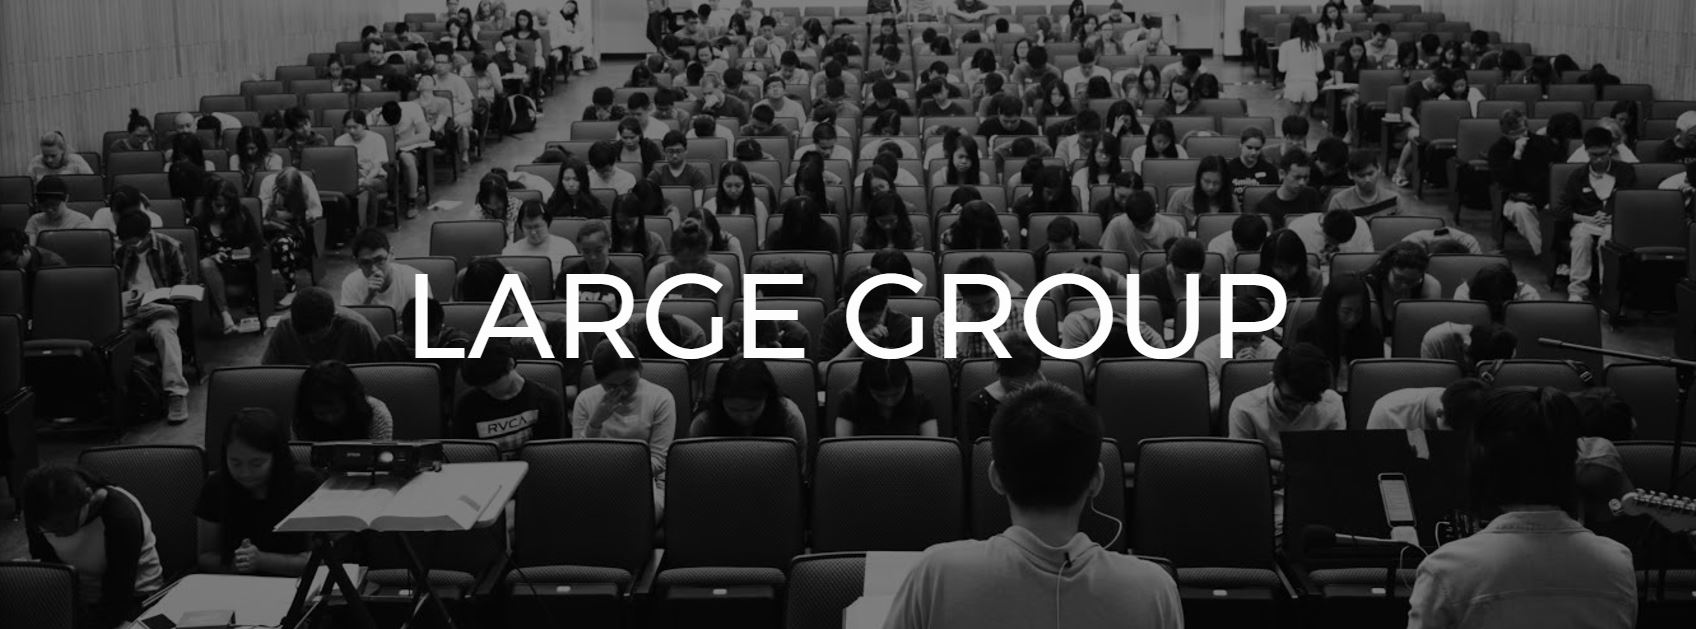
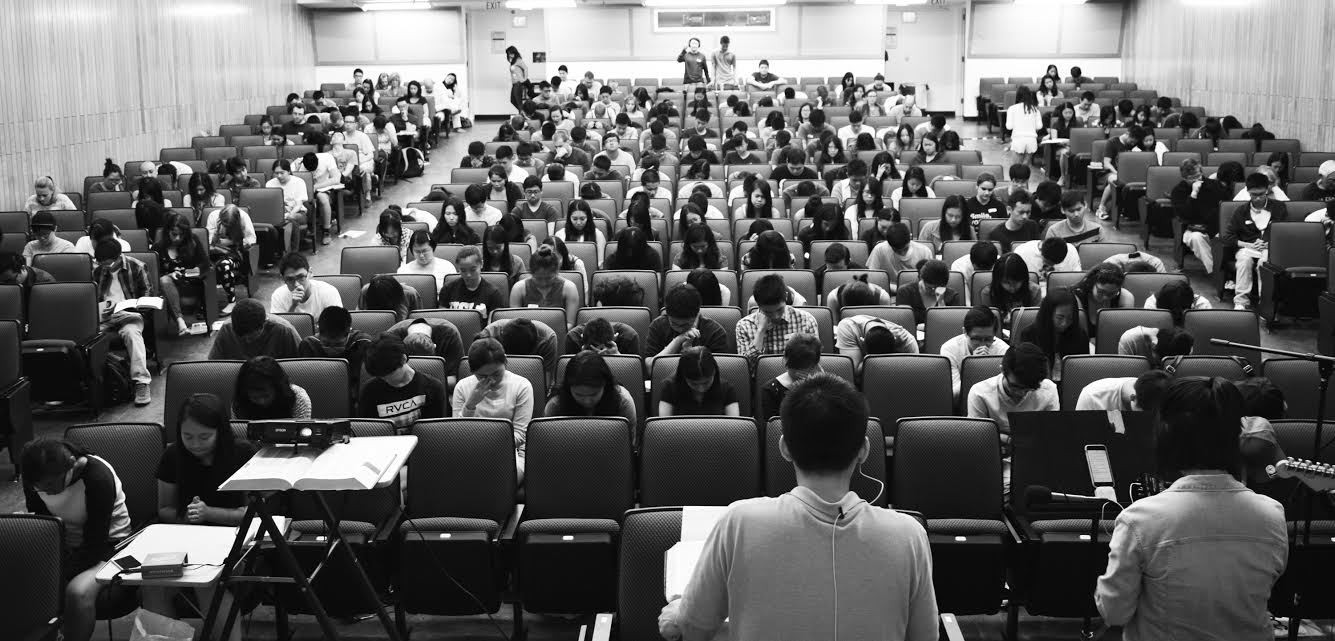
fixed render issue

diff --git a/src/screens/home/homepage.js b/src/screens/home/homepage.js
@@ -18,7 +18,7 @@ class Home extends Component {
     headerStyle: { backgroundColor: '#fff', borderBottomWidth: 1, borderBottomColor: '#ecedef', paddingTop: 20 },
     headerTitleStyle: { fontFamily: 'Akkurat-Regular', fontSize: 15, color: '#222222', lineHeight: 18 },
   })
-  
+
   constructor(props) {
     super(props);
     this.state = {
@@ -28,7 +28,7 @@ class Home extends Component {
     };
     this.props.getUserPerm();
     this.props.postFetch();
-     
+
     this.setRead = this.setRead.bind(this);
     this.renderRow = this.renderRow.bind(this);
   }
@@ -111,14 +111,14 @@ class Home extends Component {
       return (
         <Screen>
           {
-            (this.state.userInfo != null && this.state.userInfo.admin) &&
+            (this.state.userInfo != null && this.state.userInfo.admin === 1) &&
              <View style={{ padding: 25 }} styleName='vertical h-center v-end'>
               <Button onPress={() => this.props.navigation.navigate('AddPost')}>
                 <Text>ADD POST</Text>
               </Button>
             </View>
           }
-         
+
           <Divider styleName="section-header">
             <Caption>Announcements</Caption>
           </Divider>

diff --git a/src/screens/about.js b/src/screens/about.js
@@ -3,7 +3,7 @@ import {
   TouchableOpacity,
   ScrollView,
 } from 'react-native';
-import { Icon, View, Divider, Heading, Title, Text, Screen } from '@shoutem/ui';
+import { Icon, View, Divider, Heading, Title, Text, Screen, Image, Tile } from '@shoutem/ui';
 
 
 class About extends Component {
@@ -25,6 +25,14 @@ class About extends Component {
   render = () => (
     <Screen>
       <ScrollView>
+      <Image
+        styleName='large-banner'
+        source={require('../images/about.jpg')}
+      >
+        <Tile>
+          <Title style={{ fontSize: 28 }}>ABOUT US</Title>
+        </Tile>
+      </Image>
         <View style={{ paddingLeft: 35, paddingRight: 35 }} styleName='vertical'>
           <Divider />
           <Title styleName='textBelow'>Welcome to Grace on Campus!</Title>

diff --git a/src/screens/connect.js b/src/screens/connect.js
@@ -37,7 +37,7 @@ class Connect extends Component {
             source={require('../images/largeGroupPhoto.jpg')}
           >
             <Tile>
-              <Heading></Heading>
+              <Title style={{ fontSize: 28 }}>Large Group</Title>
             </Tile>
           </Image>
           <View style={{ paddingLeft: 35, paddingRight: 35 }} styleName='vertical'>
@@ -64,7 +64,7 @@ class Connect extends Component {
           source={require('../images/smallGroupsPhoto.jpg')}
         >
           <Tile>
-            <Title></Title>
+            <Title style={{ fontSize: 28 }}>Small Groups</Title>
           </Tile>
         </Image>
           <Divider />

diff --git a/src/screens/roster/individualUser.js b/src/screens/roster/individualUser.js
@@ -63,7 +63,7 @@ class IndividualUser extends Component {
           </View>
         </View>
         <Divider />
-        <View style={{ borderTopWidth: 1, borderTopColor: '#ecedef', backgroundColor: 'white', paddingTop: 35, paddingHorizontal: 35, paddingBottom: 50 }}>
+        <View style={{ flex: 1, flexDirection: 'column', borderTopWidth: 1, borderTopColor: '#ecedef', backgroundColor: 'white', paddingTop: 35, paddingHorizontal: 35, paddingBottom: 50 }}>
           <Caption>Email</Caption>
           <Title style={{ fontSize: 18 }}>{user.email}</Title>
           <Caption style={{ marginTop: 4 }}>Phone</Caption>
